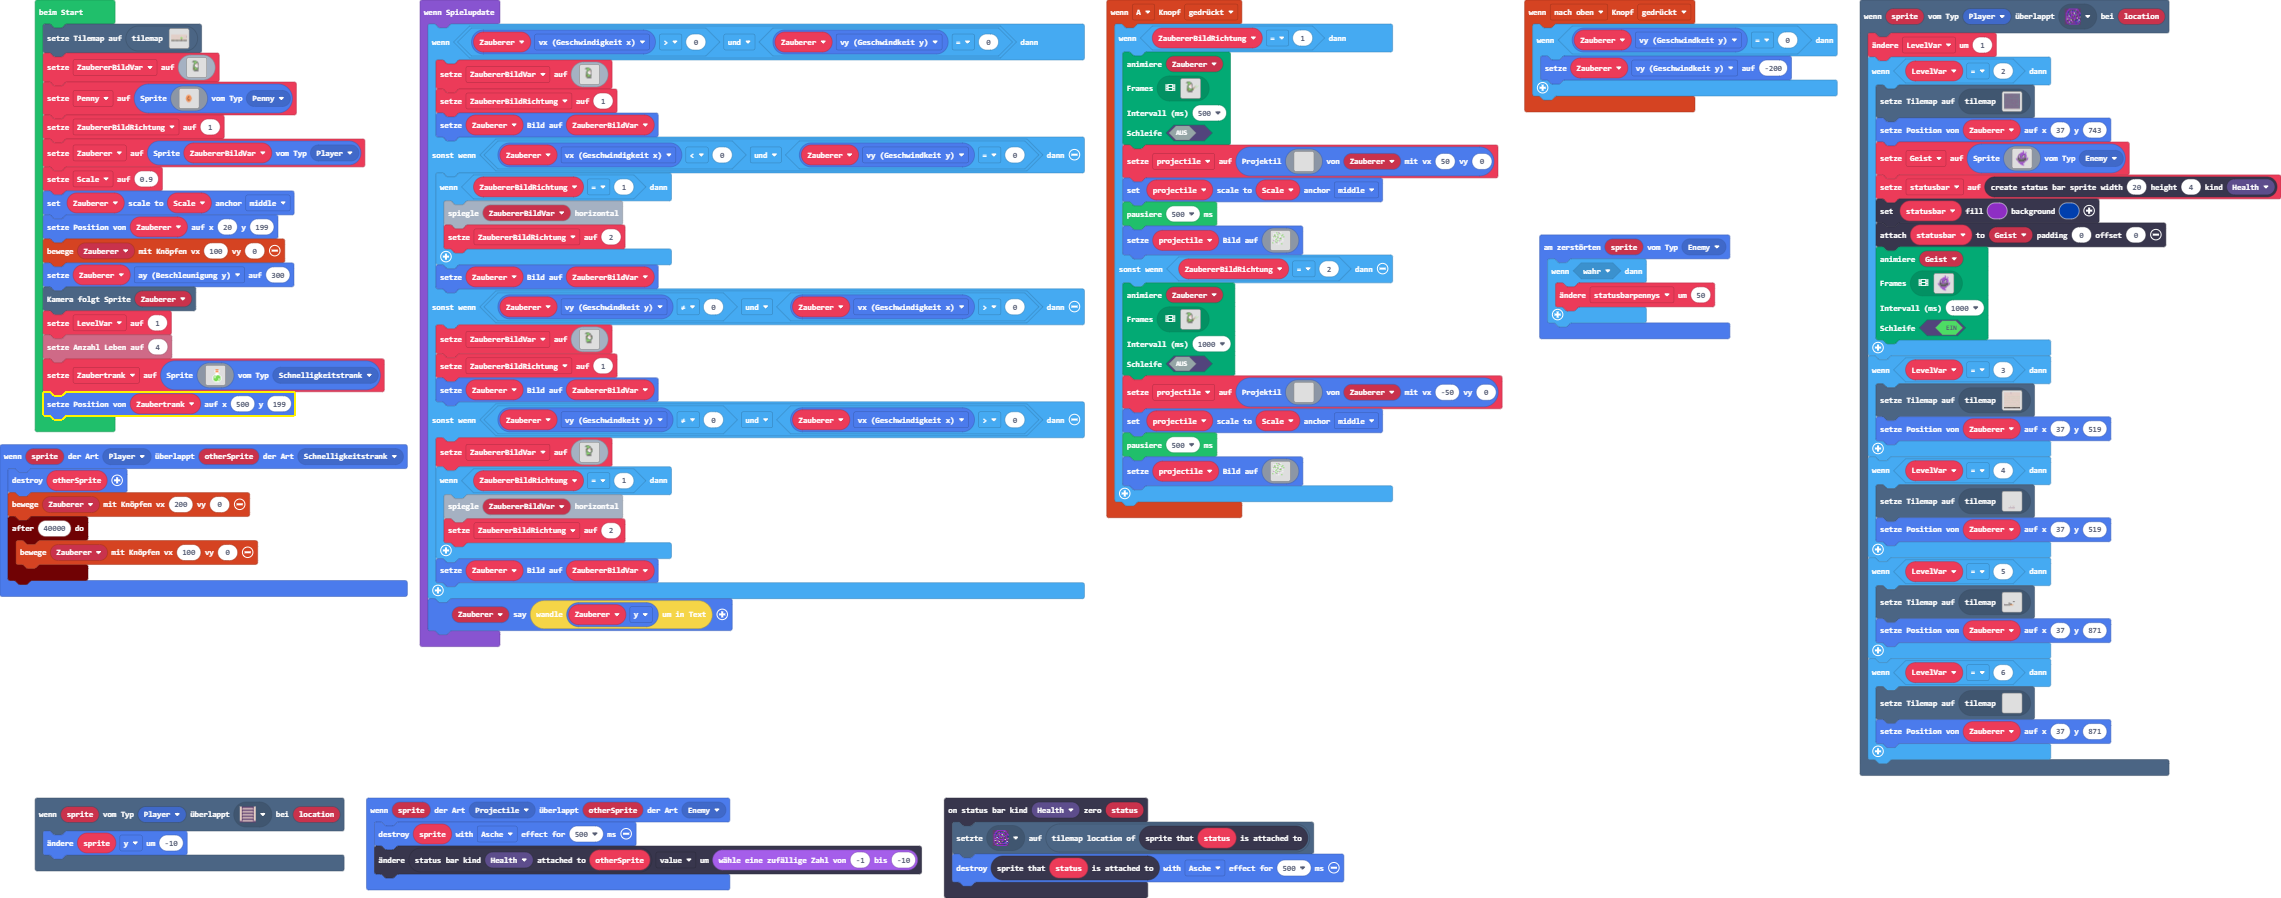
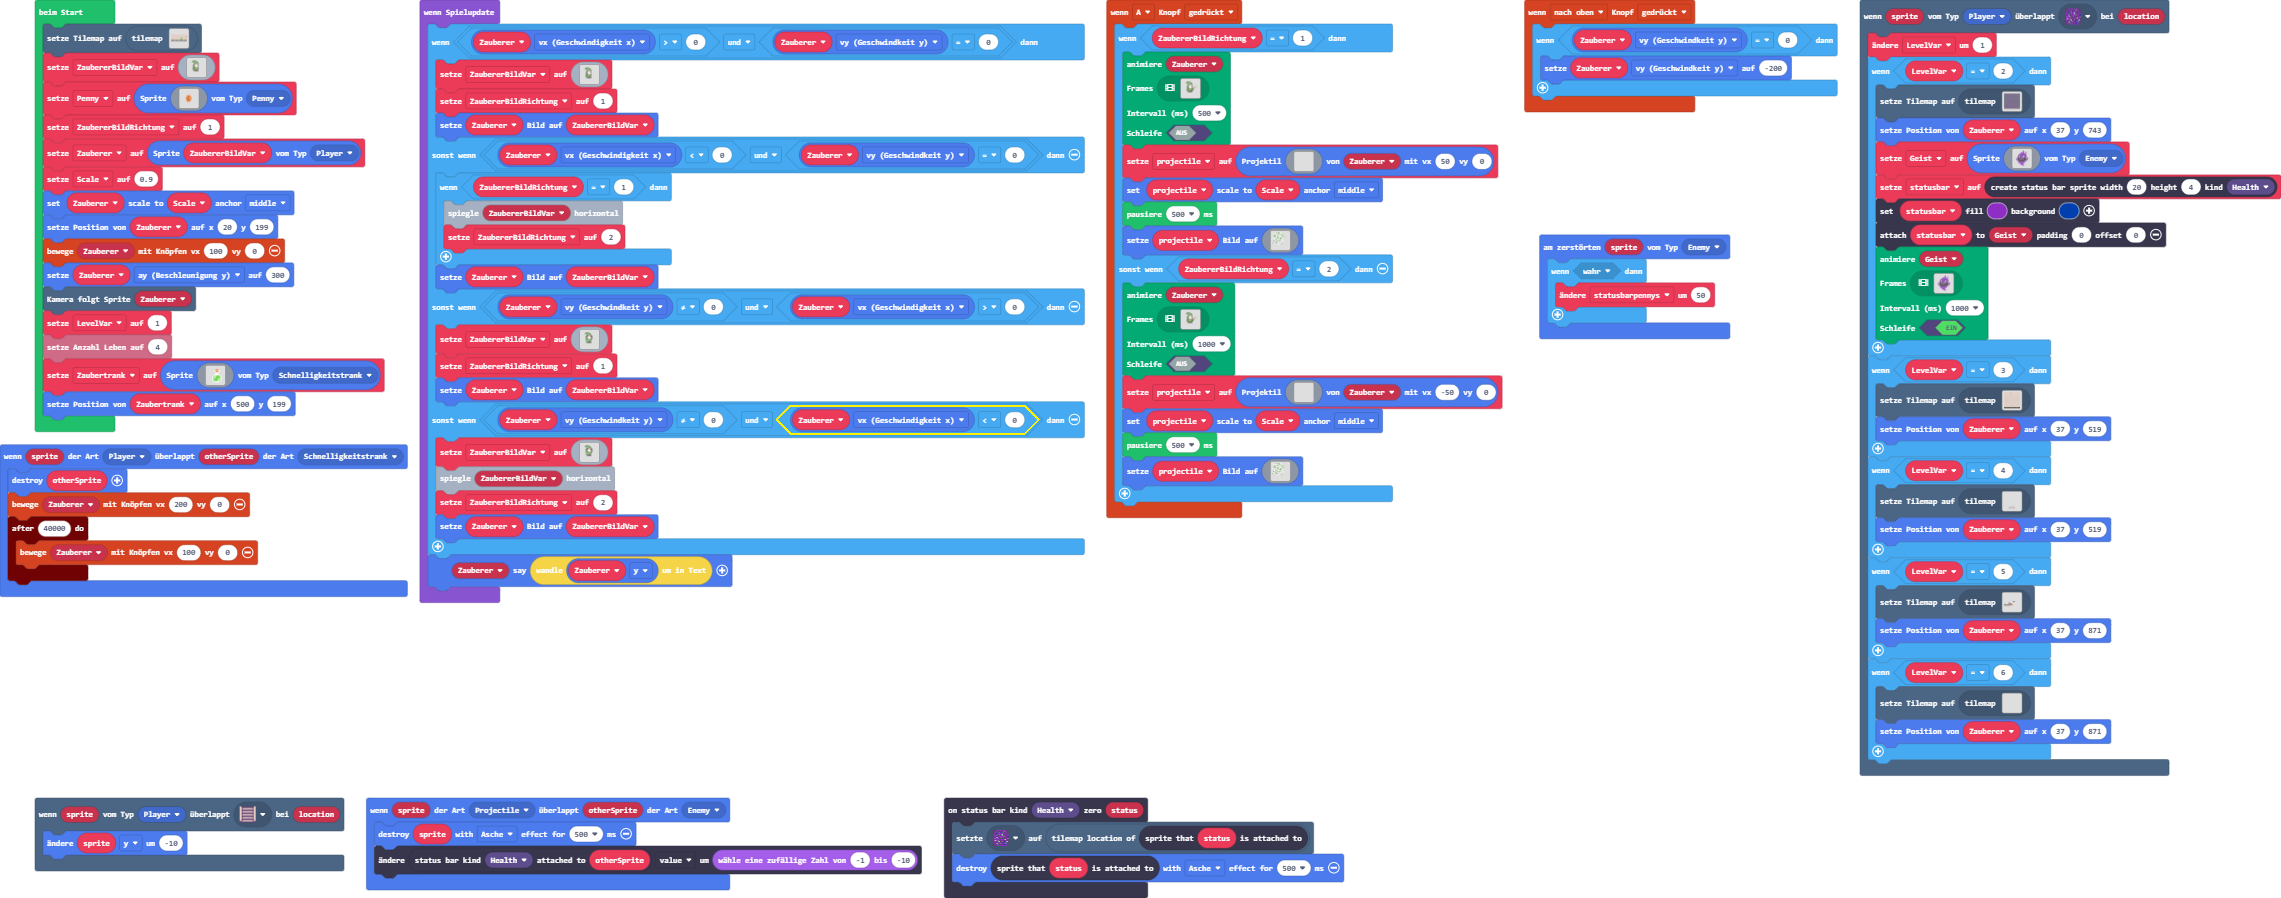
Aktualisiere main.blocks, main.ts

Changed region(s): [[0.1868, 0.4989, 0.498, 0.7483], [0.0311, 0.4365, 0.1245, 0.4677]]

diff --git a/main.ts b/main.ts
@@ -177,12 +177,10 @@ game.onUpdate(function () {
         ZaubererBildVar = assets.image`ZaubererJumpBild`
         ZaubererBildRichtung = 1
         Zauberer.setImage(ZaubererBildVar)
-    } else if (Zauberer.vy != 0 && Zauberer.vx > 0) {
+    } else if (Zauberer.vy != 0 && Zauberer.vx < 0) {
         ZaubererBildVar = assets.image`ZaubererJumpBild`
-        if (ZaubererBildRichtung == 1) {
-            ZaubererBildVar.flipX()
-            ZaubererBildRichtung = 2
-        }
+        ZaubererBildVar.flipX()
+        ZaubererBildRichtung = 2
         Zauberer.setImage(ZaubererBildVar)
     }
     Zauberer.sayText(convertToText(Zauberer.y))
